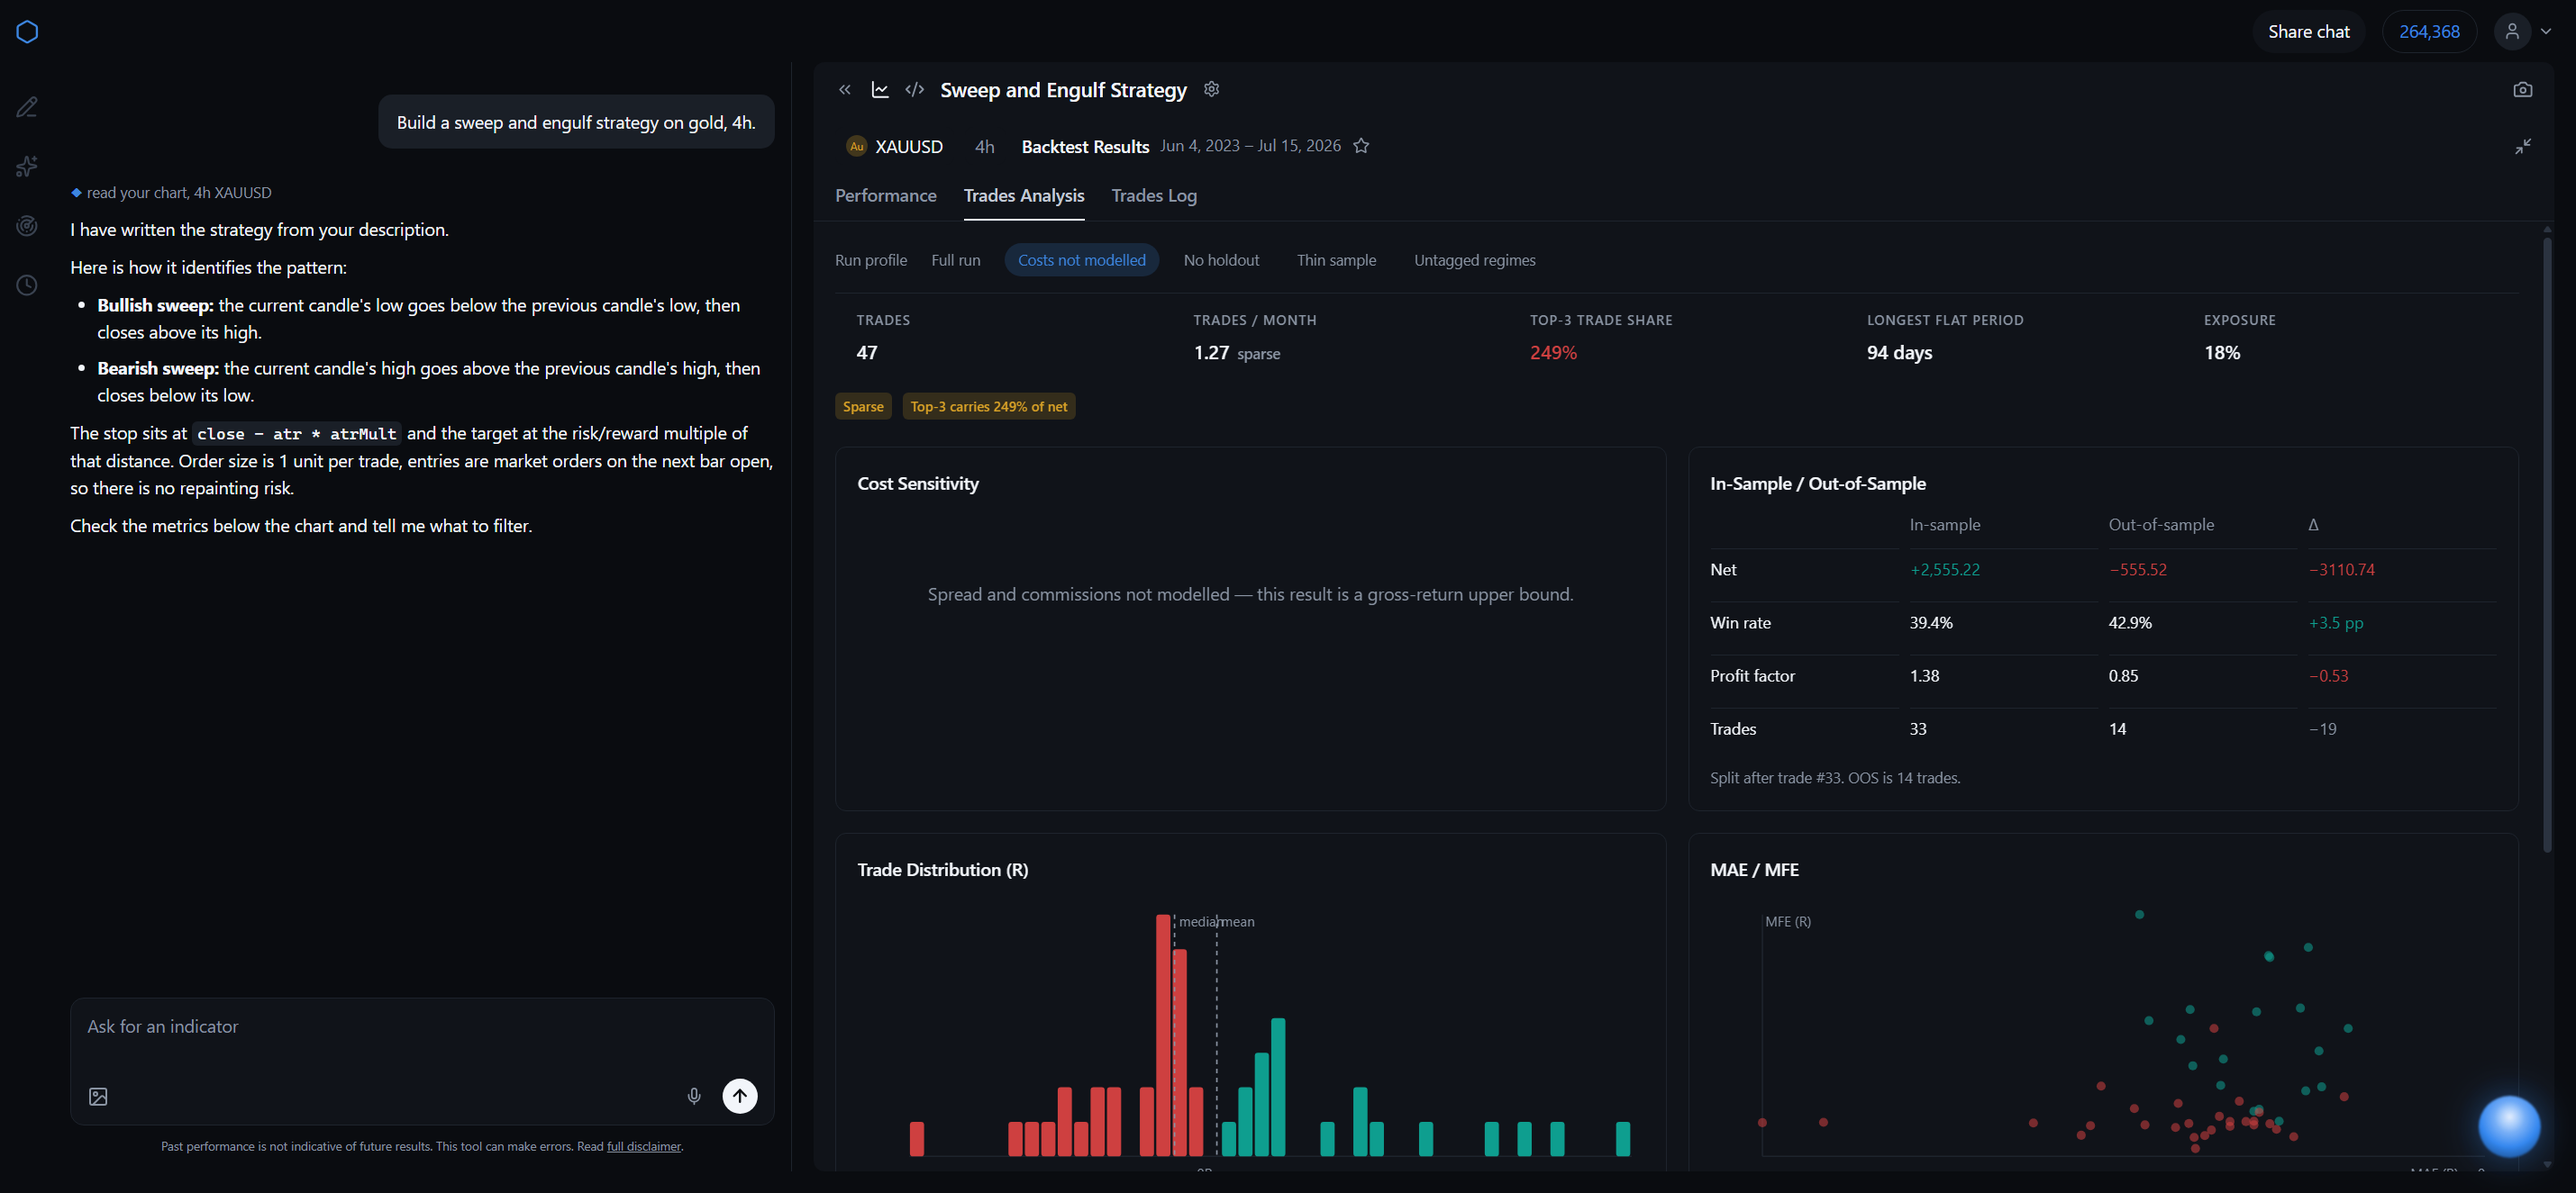
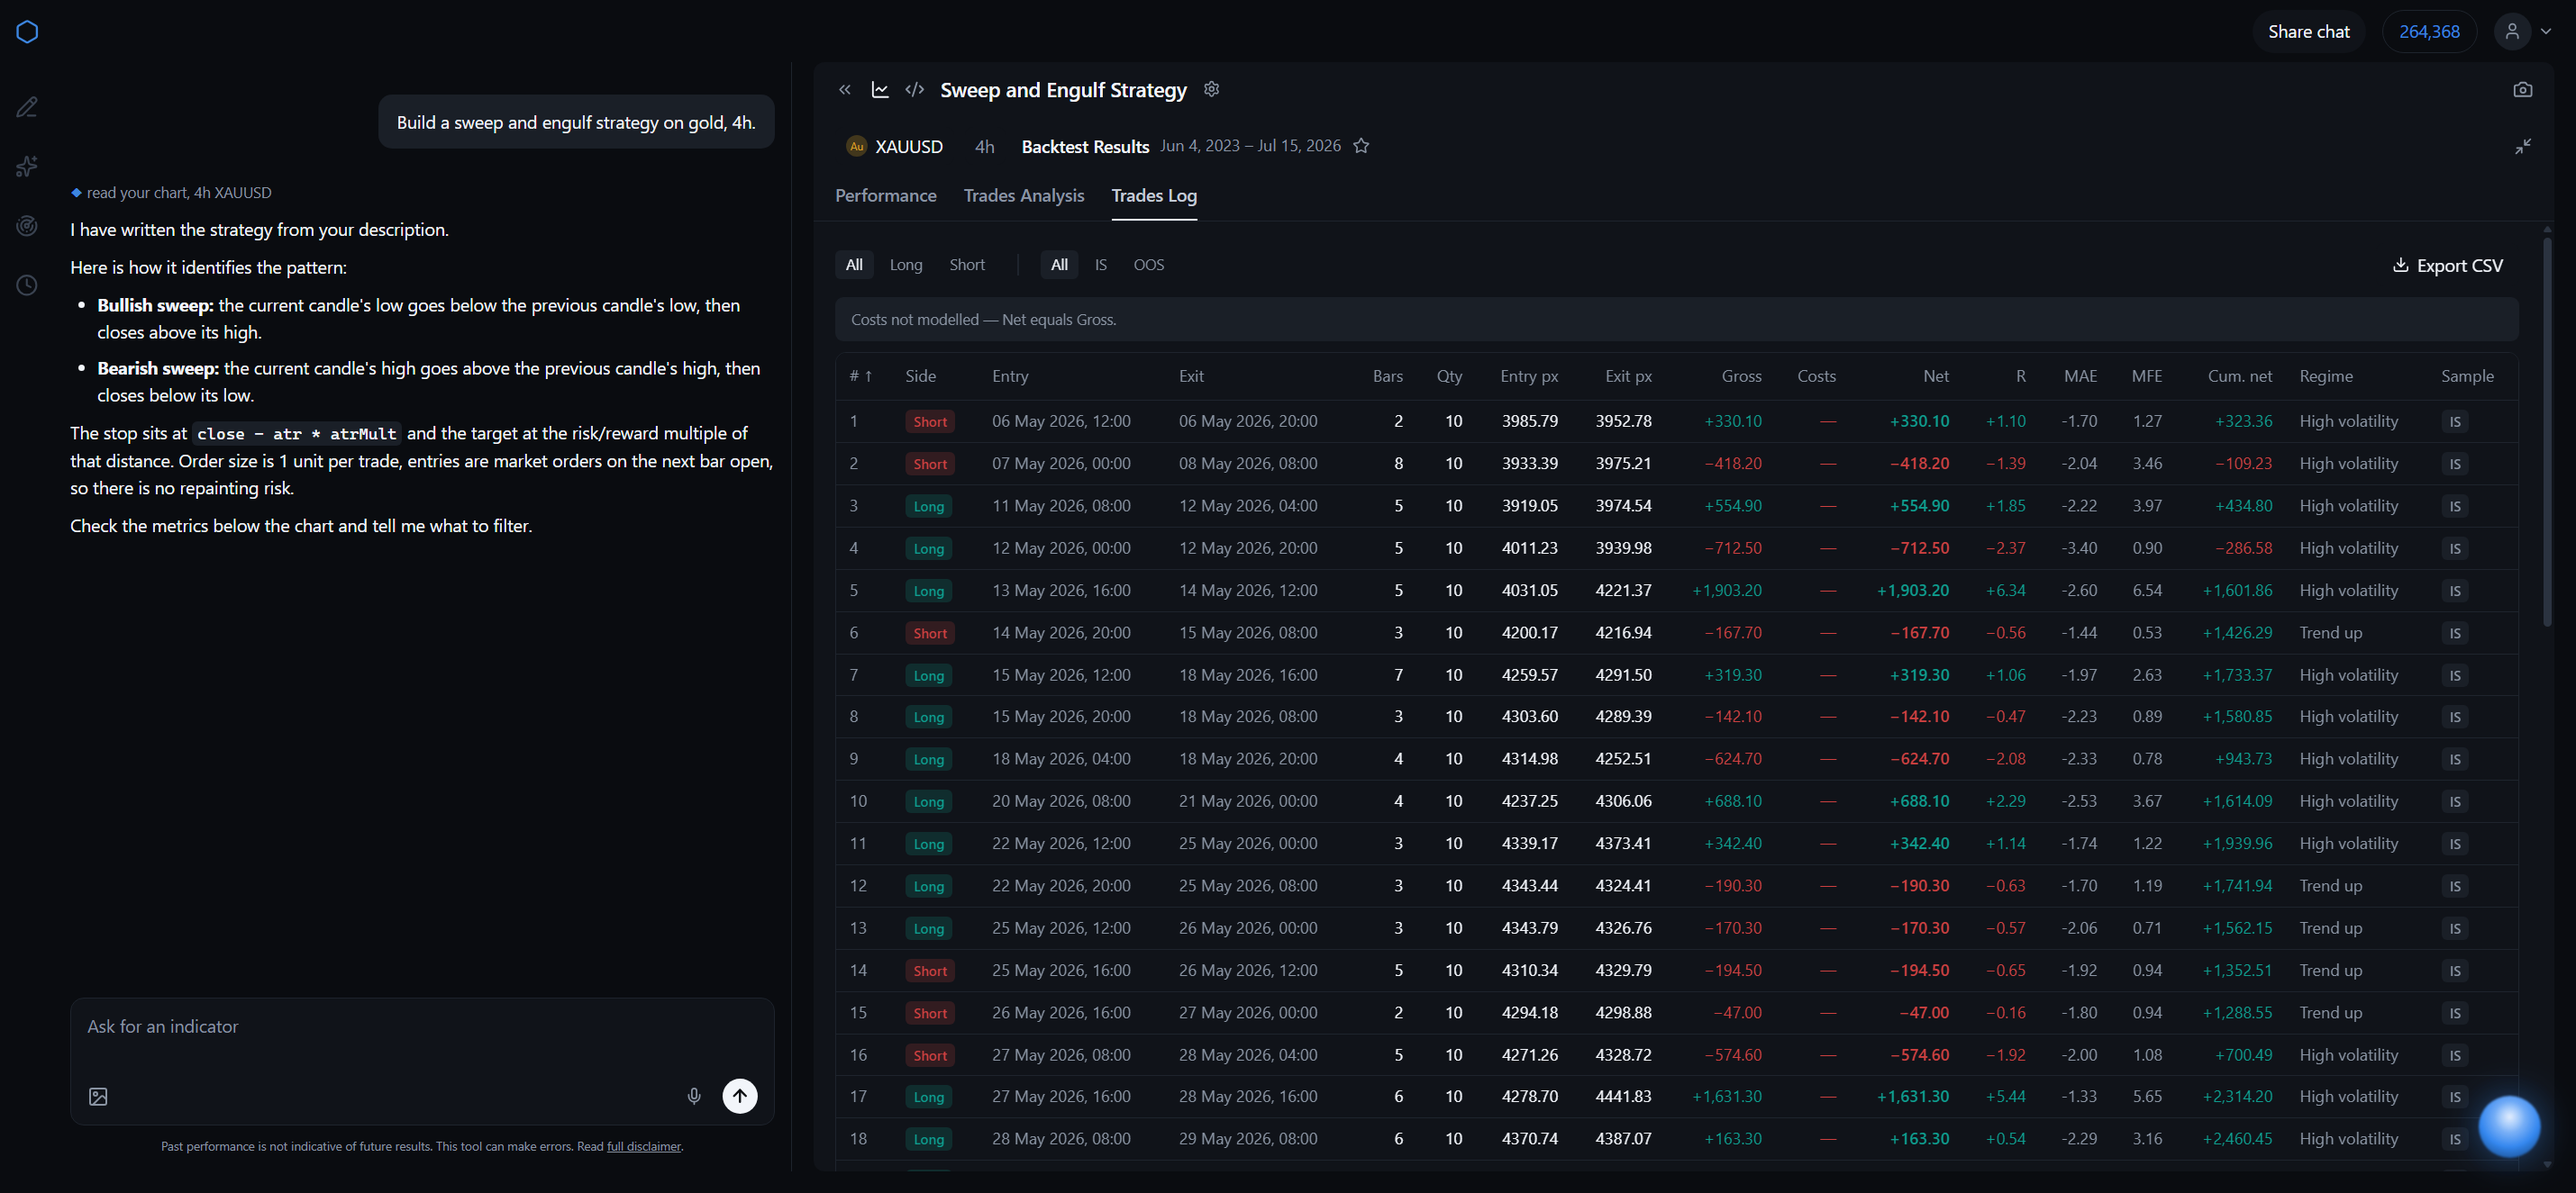
Greptile round 1: harden the gates, and make the run profile drive every tab
Four findings, all real, and two of them were defects in the gate I had just
written to catch defects.

THE REGIME ROW GATE COULD NOT FAIL. It searched the whole page for "thin",
which the `Thin sample` chip in a different panel satisfies on its own. The row
could lose both its muted styling and its row-local marker and the gate would
still have gone green. Now scoped to the regime table, reading each row's own
trade count, and requiring BOTH the muted class and a row-local Thin marker.

THE COSTS ROW CHECKED HALF OF WHAT SECTION 11 DECLARES. That row calls for two
behaviours from one input - the cost-sensitivity card refuses AND the log shows
a banner with a dash costs column - and only the card was asserted. Extending
it exposed the underlying product gap: the run profile was local state inside
Trades Analysis, so the Trades Log could never render its no-costs state at all.
The profile describes the RUN, not a tab, so it now lives in BacktestPanel and
drives both, and TradesLog gained regimesTagged alongside costsModelled. The
gate now reads the actual Costs column and requires every cell to be a dash.

THE SWEEP LEAKED MICROPHONE CONSENT. The permission-denied fixture writes
tc.voice.consent=1, and localStorage is origin-scoped across the whole browser
profile rather than the tab. An interrupted run left it set, so a later real
visit would treat consent as already granted and start capture without asking.
[…]

diff --git a/src/components/TradesAnalysis.tsx b/src/components/TradesAnalysis.tsx
@@ -1,4 +1,4 @@
-import { useMemo, useState } from "react";
+import { useMemo } from "react";
 import { CostCurve, DurationHistogram, MaeMfeScatter, RDistribution } from "./charts";
 import { Card, Chip, cx, KpiStrip, Refusal, Signed } from "../ui";
 import { trades } from "../fixtures/market";
@@ -7,7 +7,7 @@ import { trades } from "../fixtures/market";
 // Design rule: every panel must be able to say no. The `profile` switch below
 // exists so that refusal is demonstrable, not just claimed — it is the P6
 // empty-state sweep made interactive.
-type Profile = "full" | "no-costs" | "no-holdout" | "thin" | "no-regimes";
+export type Profile = "full" | "no-costs" | "no-holdout" | "thin" | "no-regimes";
 
 const PROFILES: { id: Profile; label: string }[] = [
   { id: "full", label: "Full run" },
@@ -17,8 +17,20 @@ const PROFILES: { id: Profile; label: string }[] = [
   { id: "no-regimes", label: "Untagged regimes" },
 ];
 
-export default function TradesAnalysis() {
-  const [profile, setProfile] = useState<Profile>("full");
+/**
+ * The run profile describes the RUN, not this tab, so it is owned by the panel
+ * and drives every tab. It used to be local state here, which meant the
+ * Trades Log could never render its own no-costs state — §11 declares a banner
+ * and a `—` column there for the same input that makes this tab refuse, and
+ * that half was unreachable in the app.
+ */
+export default function TradesAnalysis({
+  profile,
+  setProfile,
+}: {
+  profile: Profile;
+  setProfile: (p: Profile) => void;
+}) {
 
   const rows = useMemo(() => (profile === "thin" ? trades.slice(0, 11) : trades), [profile]);
   const costsModelled = profile !== "no-costs";

diff --git a/src/components/BacktestPanel.tsx b/src/components/BacktestPanel.tsx
@@ -3,7 +3,7 @@ import { Minimize2, Star } from "lucide-react";
 import { CategoryBars, DailyPnl, EquityCurve } from "./charts";
 import { AssetBadge, Card, cx, KpiStrip, Legend, Signed } from "../ui";
 import { dailyPnl, equity, metricsFor, type SideFilter, summary, weekdayPnlFor } from "../fixtures/market";
-import TradesAnalysis from "./TradesAnalysis";
+import TradesAnalysis, { type Profile } from "./TradesAnalysis";
 import TradesLog from "./TradesLog";
 
 const TABS = ["Performance", "Trades Analysis", "Trades Log"] as const;
@@ -38,6 +38,8 @@ export default function BacktestPanel({
   onShowOnChart?: (t: { n: number; entryTime: number; exitTime: number }) => void;
 }) {
   const [tab, setTab] = useState<Tab>("Performance");
+  // Owned here so every tab sees the same run (§11 empty-state sweep).
+  const [profile, setProfile] = useState<Profile>("full");
 
   return (
     <div className="flex h-full min-h-0 flex-col">
@@ -83,8 +85,10 @@ export default function BacktestPanel({
 
       <div className="min-h-0 flex-1 overflow-y-auto px-4 pb-6">
         {tab === "Performance" && <Performance />}
-        {tab === "Trades Analysis" && <TradesAnalysis />}
-        {tab === "Trades Log" && <TradesLog onShowOnChart={onShowOnChart} />}
+        {tab === "Trades Analysis" && <TradesAnalysis profile={profile} setProfile={setProfile} />}
+        {tab === "Trades Log" && (
+          <TradesLog costsModelled={profile !== "no-costs"} regimesTagged={profile !== "no-regimes"} onShowOnChart={onShowOnChart} />
+        )}
       </div>
     </div>
   );

diff --git a/src/components/TradesLog.tsx b/src/components/TradesLog.tsx
@@ -37,9 +37,12 @@ const dt = (t: number) =>
 
 export default function TradesLog({
   costsModelled = true,
+  regimesTagged = true,
   onShowOnChart,
 }: {
   costsModelled?: boolean;
+  /** §11: an untagged run shows `—` in Regime here, not a guessed label. */
+  regimesTagged?: boolean;
   onShowOnChart?: (t: Trade) => void;
 }) {
   const [side, setSide] = useState<"All" | "Long" | "Short">("All");
@@ -161,7 +164,7 @@ export default function TradesLog({
                 <td className="tnum px-2.5 py-1.5 text-right">
                   <Signed value={t.cum} />
                 </td>
-                <td className="px-2.5 py-1.5 whitespace-nowrap text-text-muted">{t.regime ?? "—"}</td>
+                <td className="px-2.5 py-1.5 whitespace-nowrap text-text-muted">{regimesTagged ? (t.regime ?? "—") : "—"}</td>
                 <td className="px-2.5 py-1.5">
                   <Chip tone={t.sample === "OOS" ? "accent" : "neutral"}>{t.sample}</Chip>
                 </td>
